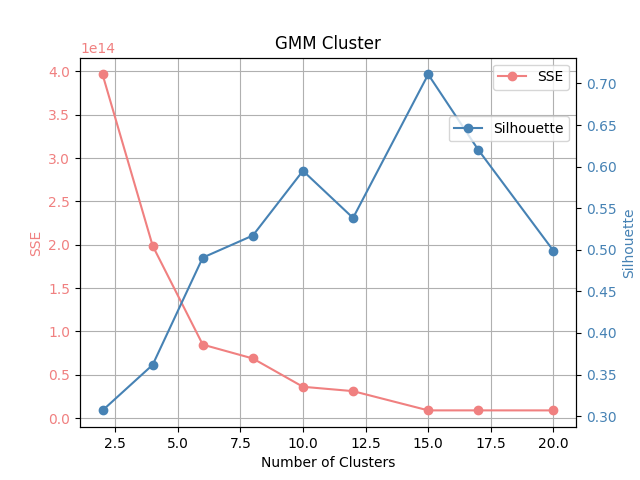
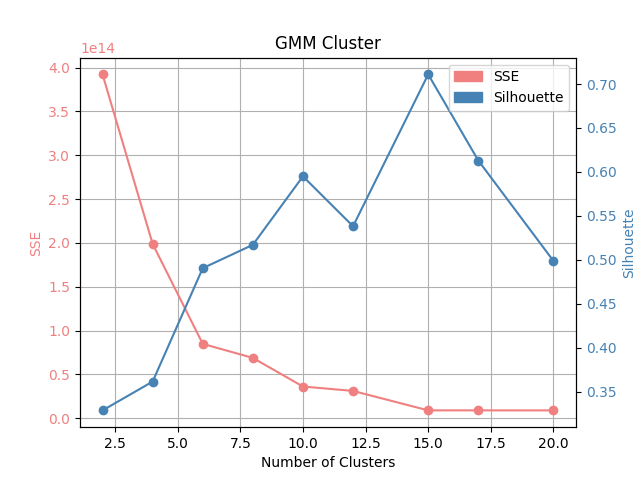
main函数，文档，Exercise1完成

diff --git a/main.py b/main.py
@@ -1,38 +1,51 @@
 import sys
 import cluster_criteria
 import cluster
-argv = sys.argv[1:]
 # 项目内容详见文档 README.md 和代码注释
-if not argv or argv[0] == '--check':
-    print('OK, 项目正常运行！\n请参考 README.md 传入参数选择要执行的功能。')
-elif argv[0] == '--cluster': # 层次聚类
-    cluster.generateAllClusterSteps(True) # 如果没有计算过，先计算一下
-    if argv[1] == 'plot': # 绘制4种聚类的散点图
-        if len(argv) >= 3 and argv[2] == '--save': # 保存到磁盘
-            cluster_criteria.plotAllTypesCluster('cluster_results.png')
-        else:  # 直接展示
-            cluster_criteria.plotAllTypesCluster(show=True)
-    elif argv[1] == 'stat': # 计算SSE, 轮廓系数，绘图展示
-        print('由于轮廓系数计算较慢，请耐心等待大约一两分钟')
-        if len(argv) >= 3 and argv[2] == '--save': # 保存到磁盘
-            cluster_criteria.plotLines('both', show=False)
-        else:  # 直接展示
-            cluster_criteria.plotLines('both', show=True)
-    elif argv[1] == 'step': # 展示层次聚类步骤，保存到磁盘
-        cluster_criteria.plotAllSteps()
-    elif argv[1] == 'generate': # 进行层次聚类，得到聚类步骤结果，用于后续绘图
-        cluster.generateAllClusterSteps() # 就算计算过，也重新计算一下
-elif argv[0] == '--gmm': # GMM
-    if argv[1] == 'diff_init': # 绘图展示比较不同初始化方式
+is_unk = False
+def unknown():
+    print('未知参数，请参考 README.md 传入参数选择要执行的功能，或检查你的输入是否有误。')
+    global is_unk
+    is_unk = True
+def main():
+    argv = sys.argv[1:]
+    show = not (len(argv) >= 3 and argv[2] == '--save') # 是展示开始写文件
+    if not argv or argv[0] == '--check':
+        print('OK, 项目正常运行！\n请参考 README.md 传入参数选择要执行的功能。')
+        return
+    print('计算中，运行可能需要一段时间，请稍等。')
+    if argv[0] == '--cluster': # 层次聚类
+        cluster.generateAllClusterSteps(True) # 如果没有计算过，先计算一下
+        if argv[1] == 'plot': # 绘制4种聚类的散点图
+            cluster_criteria.plotAllTypesCluster('cluster_results.png', show=show)
+        elif argv[1] == 'stat': # 计算SSE, 轮廓系数，绘图展示
+            print('由于轮廓系数计算较慢，请耐心等待大约一两分钟。')
+            cluster_criteria.plotLines('both', show=show)
+        elif argv[1] == 'step': # 展示层次聚类步骤，保存到磁盘
+            cluster_criteria.plotAllSteps()
+            show = False
+        elif argv[1] == 'generate': # 进行层次聚类，得到聚类步骤结果，用于后续绘图
+            cluster.generateAllClusterSteps() # 就算计算过，也重新计算一下
+        else:
+            unknown()
+    elif argv[0] == '--gmm': # GMM
+        if argv[1] == 'diff_init': # 绘图展示比较不同初始化方式
+            cluster_criteria.plotLines_GMM(show=show)
+        elif argv[1] == 'diff_k': # 绘图展示比较不同聚类数
+            cluster_criteria.plotLines_GMM_k(show=show)
+        elif argv[1] == 'diff_k_stat': # 比较不同聚类数的SSE，轮廓系数
+            cluster_criteria.plotSSE_Silhouette_GMM_k(show=show)
+        else:
+            unknown()
+    elif argv[0] == '--compare': # 层次聚类与GMM比较
+        if argv[1] == 'plot': # 对比绘图展示层次聚类和GMM聚类结果
+            cluster_criteria.plotWardVsGMM(show=show)
+        elif argv[1] == 'stat': # 对比展示层次聚类和GMM聚类的SSE，轮廓系数
+            cluster_criteria.compareWardAndGMM(show=show)
+    elif argv[0] == '--all': # 输出所有?
         ...
-    elif argv[1] == 'diff_k': # 绘图展示比较不同聚类数
-        ...
-    elif argv[1] == 'diff_k_stat': # 比较不同聚类数的SSE，轮廓系数
-        ...
-elif argv[0] == '--compare': # 层次聚类与GMM比较
-    if argv[1] == 'plot': # 对比绘图展示层次聚类和GMM聚类结果
-        ...
-    elif argv[1] == 'stat': # 对比展示层次聚类和GMM聚类的SSE，轮廓系数
-        ...
-elif argv[0] == '--all': # 输出所有?
-    ...
+    else:
+        unknown()
+    if not show and not is_unk: # 不是在线展示而是写入磁盘
+        print('结果已保存到磁盘，请到项目根目录查看！')
+main()

diff --git a/cluster_criteria.py b/cluster_criteria.py
@@ -51,8 +51,7 @@ def calcSilhouette(dis, labels):
 
 def calcSilhouettes(n, steps, p, calcLim=25):
     '''给定聚类过程steps和点集p，计算聚成k∈[1,n]类各自的SSE，返回0-indexed的轮廓系数列表，calcLim 是最多多少类时计算轮廓系数 \n
-    计算各点的轮廓系数Silhouette Coefficient的平均
-    '''
+    计算各点的轮廓系数Silhouette Coefficient的平均'''
     silhouette = [0] * n
     dsu = disjointSet.DSU_hard(n)
     distance_matrix = utils.getDisMatrix(p)
@@ -75,8 +74,8 @@ def plotLine(seq, type_, metric, logScale=False):
     plt.ylabel(f'{metric}')
     plt.grid()
     
-def plotDoubleLines(y1, y2, x, y1name, y2name, ax1, type_):
-    '''绘制双Y轴折线图给定两个序列为y1,y2，x轴为x，两个序列名字为y1name,y2name，图标题为type_'''
+def plotDoubleLines(y1, y2, x, y1name, y2name, ax1, type_, bbox=(1,.8)):
+    '''绘制双Y轴折线图给定两个序列为y1,y2，x轴为x，两个序列名字为y1name,y2name，图标题为type_，图例位置bbox'''
     type_ = type_ if type_.isupper() else type_.title()
     ax1.set_title(f'{type_} Cluster') 
     ax1.set_xlabel('Number of Clusters')
@@ -96,7 +95,7 @@ def plotDoubleLines(y1, y2, x, y1name, y2name, ax1, type_):
     handles1, labels1 = ax1.get_legend_handles_labels()
     handles2, labels2 = ax2.get_legend_handles_labels()
     handles = [Patch(color=c1, alpha=1, label=y1name), Patch(color=c2, alpha=1, label=y2name)]
-    ax2.legend(handles=handles, loc='upper right')
+    ax2.legend(handles=handles, loc='upper right', bbox_to_anchor=bbox)
     ax1.grid()
 
 # @utils.print_exec_time
@@ -138,7 +137,7 @@ def plotClusterResults(p, labels, type_, cmap='tab20'):
     plt.title(f'{type_} Cluster')
     # plt.colorbar(label='class')
     
-def plotAllTypesCluster(dest_path='', k=15, show=False):
+def plotAllTypesCluster(dest_path='cluster_results.png', k=15, show=False):
     '''绘制四种层次聚类结果,聚成k类; 保存于路径dest_path；show区分是直接展示(True)还是保存到本地(False)'''
     p = utils.readCSV()
     fig, axs = plt.subplots(2, 2, figsize=(12, 9))
@@ -233,7 +232,7 @@ def plotSSE_Silhouette_GMM_k(seed=8208, show=False):
         sses.append(calcSSE(p, label, k))
         silhouettes.append(calcSilhouette(p_dist, label))
     fig, ax1 = plt.subplots()
-    plotDoubleLines(sses, silhouettes, K_LIST, 'SSE', 'Silhouette', ax1, 'GMM')
+    plotDoubleLines(sses, silhouettes, K_LIST, 'SSE', 'Silhouette', ax1, 'GMM', (1,1))
     if show:
         plt.show()
     else:
@@ -312,7 +311,7 @@ def compareWardAndGMM(seed=8914, show=False):
     else:
         plt.savefig(f'Ward_vs_GMM_compare.png')
 # compareWardAndGMM(8914, True)
-compareWardAndGMM(8914, False)
+# compareWardAndGMM(8914, False)
 
 # 下面代码没有在正式部分使用
 def plotGMMcluster():

diff --git a/README.md b/README.md
@@ -14,7 +14,7 @@
 - `matplotlib` 用于绘制图表
 - `sklearn` 用于绘制图表、协同过滤
 
-项目主函数入口在 `main.py`，使用命令行参数来选择执行内容。(具体解释见下文)
+项目主函数入口在 `main.py`，使用命令行参数来选择执行内容，执行下面指令的任意一条，选择不同的功能。(具体解释见下文)
 
 ```sh
 python main.py --cluster plot # 绘制层次聚类结果展示
@@ -28,13 +28,13 @@ python main.py --compare plot # 对比展示层次聚类和GMM聚类结果
 python main.py --compare stat # 对比展示层次聚类和GMM聚类指标
 ```
 
-
+> 在每条指令的后面输入 `--save`，可以把结果展示到屏幕改为写入到磁盘。
 
 支持的运行功能的详细介绍：(若 Linux，可以把 `python` 改为 `python3` 等)
 
 1. 对给定数据 `8gau.txt`，执行层次聚类，生成结果。
 
-   1. 使用预先运行好的层次聚类结果绘图，**绘制四种聚类结果**。结果直接展示。
+   - 使用预先运行好的层次聚类结果绘图，**绘制四种聚类结果**(最小、最大、组平均、ward聚类)。结果直接展示。
 
       ```sh
       python main.py --cluster plot
@@ -48,7 +48,7 @@ python main.py --compare stat # 对比展示层次聚类和GMM聚类指标
       >
       > 此时会把结果保存在项目根目录 `cluster_results.png`。
 
-   2. **计算 SSE 和轮廓系数**，绘图展示。
+   - **计算 SSE 和轮廓系数**，绘图展示。
 
       鉴于轮廓系数计算耗时较久，需要等待大约两分钟。
 
@@ -64,7 +64,7 @@ python main.py --compare stat # 对比展示层次聚类和GMM聚类指标
       >
       > 此时会把结果保存在项目根目录 `both_partial.png`。表示两个结果(both)的部分(partial)分类(k<=25)结果。
 
-   3. **绘制层次聚类的步骤**，保存到本地。
+   - **绘制层次聚类的步骤**，保存到本地。
 
       ```sh
       python main.py --cluster step
@@ -77,7 +77,7 @@ python main.py --compare stat # 对比展示层次聚类和GMM聚类指标
       - 平均聚类 `average_clustering_steps.png`
       - ward聚类 `ward_clustering_steps.png`
 
-   4. 对原数据集**进行层次聚类，生成聚类结果**(聚类步骤记录)。
+   - 对原数据集**进行层次聚类，生成聚类结果**(聚类步骤记录)。
 
       ```sh
       python main.py --cluster generate
@@ -90,9 +90,82 @@ python main.py --compare stat # 对比展示层次聚类和GMM聚类指标
       - 平均聚类 `steps_average.txt`
       - ward聚类 `steps_ward.txt`
 
-2. 
+2. 对给定数据 `8gau.txt`，执行GMM聚类，生成结果。
 
-   > 注：因为使用了随机函数，所以偶然结果不佳是正常现象，可以重新运行一次。
+   > 注：因为使用了随机函数，所以GMM的结果偶然不佳是正常现象，可以重新运行一次。
+
+   - 分别使用随机初始化、K-Means初始化、K-Medoids初始化、K-Means++初始化执行GMM，**绘制四种策略下GMM的聚类结果**。
+
+      ```sh
+      python main.py --gmm diff_init
+      ```
+
+      > 如果要保存结果(不展示)，修改为：
+      >
+      > ```sh
+      > python main.py --gmm diff_init --save
+      > ```
+      >
+      > 此时会把结果保存在项目根目录 `GMM_different_strategy.png`。
+
+   - 分别对不同的聚类数 $k$ 进行GMM聚类，**绘制不同聚类数 $k$ 下GMM的聚类结果**。
+
+      ```sh
+      python main.py --gmm diff_k
+      ```
+
+      > 如果要保存结果(不展示)，修改为：
+      >
+      > ```sh
+      > python main.py --gmm diff_k --save
+      > ```
+      >
+      > 此时会把结果保存在项目根目录 `GMM_different_k.png`。
+
+   - 分别对不同的聚类数 $k$ 进行GMM聚类，**绘制不同聚类数 $k$ 下GMM的聚类的SSE和轮廓系数**。
+
+      ```sh
+      python main.py --gmm diff_k_stat
+      ```
+
+      > 如果要保存结果(不展示)，修改为：
+      >
+      > ```sh
+      > python main.py --gmm diff_kstat --save
+      > ```
+      >
+      > 此时会把结果保存在项目根目录 `GMM_different_k_sse_silhouette.png`。
+
+3. 对给定数据 `8gau.txt`，对**层次聚类和GMM聚类比较，生成结果**。
+
+   - 绘制ward层次聚类和K-means++初始化的GMM聚类聚成 $k=15$ 类的**聚类结果**。
+
+      ```sh
+      python main.py --compare plot
+      ```
+
+      > 如果要保存结果(不展示)，修改为：
+      >
+      > ```sh
+      > python main.py --compare plot --save
+      > ```
+      >
+      > 此时会把结果保存在项目根目录 `Ward_vs_GMM.png`。
+
+   - 绘制和输出ward层次聚类和K-means++初始化的GMM聚类聚成 $k=15$ 类的**聚类指标SSE、轮廓系数**。绘图对比，并在控制台输出指标值。
+
+      ```sh
+      python main.py --compare stat
+      ```
+
+      > 如果要保存结果(不展示)，修改为：
+      >
+      > ```sh
+      > python main.py --compare stat --save
+      > ```
+      >
+      > 此时会把结果保存在项目根目录 `Ward_vs_GMM_compare.png`。
+
 
 
 
